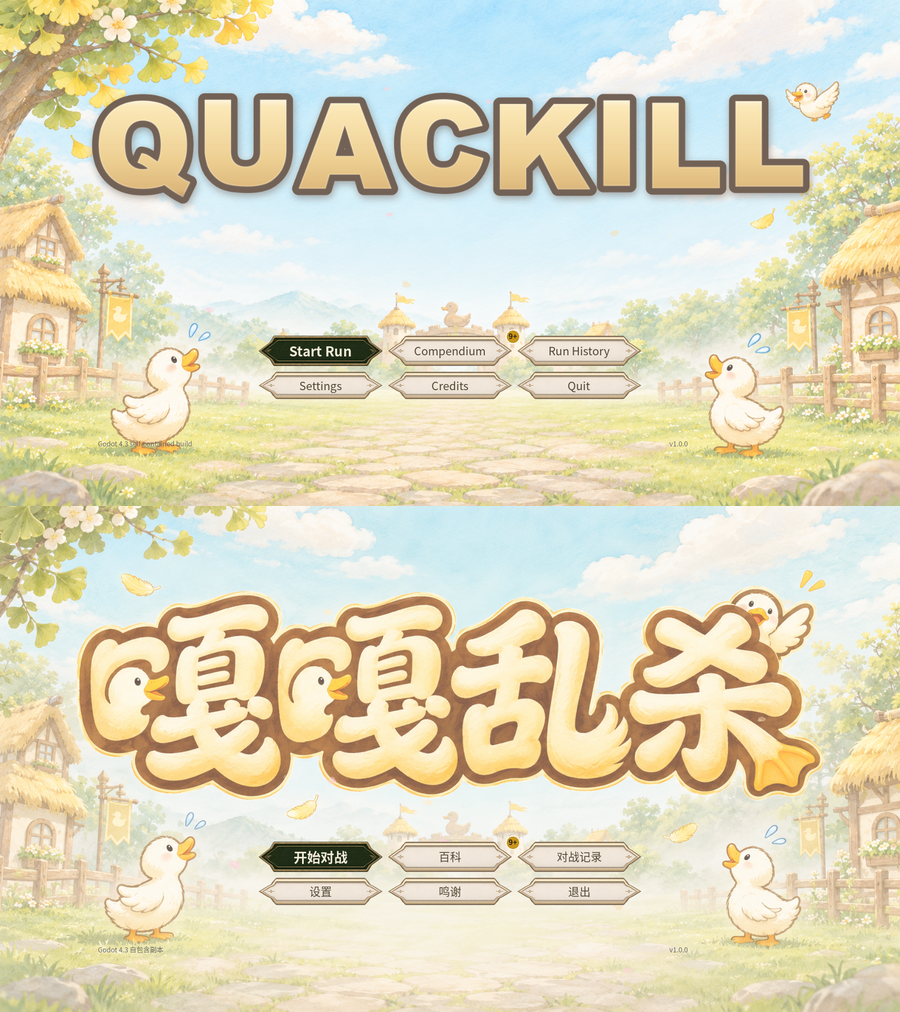
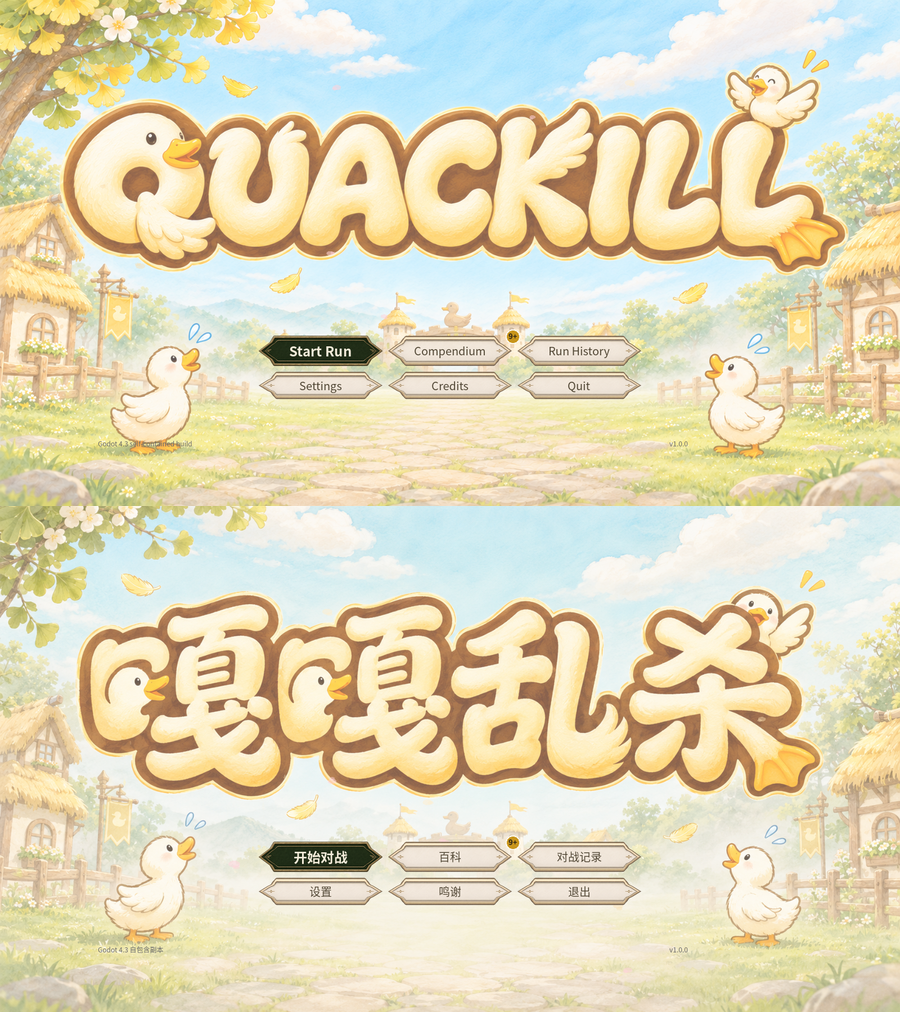
R855：英文主视觉改为鸭子字形 QUACKILL

diff --git a/art_src/2026-11-22_title_en/_make_duck_review.py b/art_src/2026-11-22_title_en/_make_duck_review.py
@@ -1,0 +1,41 @@
+# -*- coding: utf-8 -*-
+"""把已生成的鸭子字形候选与旧版并排，缺图自动跳过，便于增量验收。"""
+import os
+from PIL import Image, ImageDraw, ImageFont
+
+ROOT = os.path.dirname(os.path.dirname(os.path.dirname(os.path.abspath(__file__))))
+D = os.path.join(ROOT, "art_src", "2026-11-22_title_en")
+RAW = os.path.join(D, "raw")
+ITEMS = [
+    ("Chinese reference", os.path.join(ROOT, "assets", "ui", "title_art.png")),
+    ("Old English - plain type", os.path.join(ROOT, "assets", "ui", "title_art_en.png")),
+    ("Codex duck lettering v1", os.path.join(RAW, "title_duck_v1.png")),
+    ("Codex duck lettering v2", os.path.join(RAW, "title_duck_v2.png")),
+]
+
+def main():
+    cells = []
+    for label, path in ITEMS:
+        if not os.path.exists(path):
+            continue
+        im = Image.open(path).convert("RGB")
+        im = im.resize((768, 432), Image.LANCZOS)
+        cell = Image.new("RGB", (768, 470), (245, 239, 222))
+        cell.paste(im, (0, 38))
+        draw = ImageDraw.Draw(cell)
+        font = ImageFont.truetype(r"C:\Windows\Fonts\arial.ttf", 22)
+        draw.text((14, 7), label, font=font, fill=(55, 35, 20))
+        cells.append(cell)
+    if not cells:
+        raise SystemExit("no images")
+    cols = 2 if len(cells) > 1 else 1
+    rows = (len(cells) + cols - 1) // cols
+    sheet = Image.new("RGB", (cols * 768, rows * 470), (245, 239, 222))
+    for i, cell in enumerate(cells):
+        sheet.paste(cell, ((i % cols) * 768, (i // cols) * 470))
+    out = os.path.join(D, "review_duck_candidates.png")
+    sheet.save(out, optimize=True)
+    print(out)
+
+if __name__ == "__main__":
+    main()

diff --git a/art_src/2026-11-22_title_en/_run_codex.py b/art_src/2026-11-22_title_en/_run_codex.py
@@ -1,13 +1,14 @@
 # -*- coding: utf-8 -*-
-"""英文版主界面主视觉背景：委托 codex 出无字图，标题字后期用金渐变合成。
+"""英文版主界面主视觉：codex 出图与鸭子字形重委托。
 
-为什么不让 AI 画字：R604 的老结论——英文八个字母 AI 照样会拼错，
-所以背景只出「无字版」，QUACKILL 由 _compose_title_en.py 用 PIL 排。
+en：旧流程，无字背景 + _compose_title_en.py 的 PIL 字体标题。
+duck1 / duck2：完整主视觉，QUACKILL 直接由 codex 画成鸭子字形；
+必须逐张人工核对八字母拼写，不能只验画风。最终选用 duck2。
 
-参考图传现有中文版 title_art.png，保证同一个童话村庄世界、同一套色调与角色。
+参考图传中文版 title_art.png 与现有英文无字背景，保持同一童话村庄与构图。
 
 用法：
-    python _run_codex.py
+    python _run_codex.py duck1 duck2
 """
 import json
 import os
@@ -30,6 +31,10 @@ PROXY = os.environ.get("CODEX_PROXY", "http://127.0.0.1:7897")
 
 JOBS = [
     ("en", ("bg_title_en.txt", "bg_title_en.png", ["assets/ui/title_art.png"])),
+    ("duck1", ("title_duck_v1.txt", "title_duck_v1.png", [
+        "assets/ui/title_art.png", "art_src/2026-11-22_title_en/raw/bg_title_en.png"])),
+    ("duck2", ("title_duck_v2.txt", "title_duck_v2.png", [
+        "assets/ui/title_art.png", "art_src/2026-11-22_title_en/raw/bg_title_en.png"])),
 ]
 
 PAT = re.compile(r"[A-Za-z]:[\\/][^\"\r\n]*?generated_images[\\/][^\"\r\n]*?\.png")

diff --git a/HANDOFF.md b/HANDOFF.md
@@ -2343,3 +2343,27 @@ manifest 的 9018 条目已更新 ref / prompt / note。
   修两条旧口径断言——`BATTLE_HEAL[0]` 0→3、R237/R853 那条原本漏设档位跑在 0 档、
   现补 `set_difficulty(12)`（旧代码全 0 时侥幸没红）。
 - **回归**：`_verify.py` 十套；engine 断点见当轮日志。用户数据备份 `/e/tmp/wt_r851b_userdata_bk`。
+
+## 2026-11-22 English duck lettering illustration
+- Goal: finished QUACKILL title illustration, duck anatomy integrated into Q/C/final L.
+- Scope: new art_src/2026-11-22_title_en/finished_quackill_duck_lettering_v1.png and matching prompt file; existing art and game scenes preserved.
+- Validation: inspected generated illustration for exact QUACKILL lettering and integrated duck features; System.Drawing checked final PNG at 1920x1080. Built-in imagegen used; final sized with bicubic resampling.
+- Known limitation: git status failed because git.exe execution was denied. Existing uncommitted changes could not be enumerated. No commit or push performed. No runtime integration or game-scene acceptance claimed.
+- Next: review asset in real title scene if integration is requested; commit this explicit asset/prompt file list and HANDOFF.md once Git execution is available.
+- Commit: unavailable (Git execution denied).
+
+## 2026-11-22 QUACKILL finished title illustration v2
+- Goal: complete English title screen with exact QUACKILL spelling and integrated Q/U/K/final-L duck anatomy.
+- Scope: added art_src/2026-11-22_title_en/finished_quackill_duck_lettering_v2.png and matching .prompt.txt. Existing images and scenes preserved.
+- Validation: visually inspected generated art for eight-letter spelling, duck features, unclipped title and clear lower menu area; System.Drawing verified final export at 1920x1080. Built-in image_gen used.
+- Known issues: git status failed with git.exe access denied; external uncommitted changes could not be identified. No commit or push performed. Asset-only delivery, no runtime scene integration or scene acceptance claimed.
+- Next: if integrating, inspect the actual title scene including narrow windows. Commit only the two v2 files plus this handoff entry when Git execution is available.
+- Corresponding commit: unavailable, Git execution denied.
+
+## 2026-11-22 R855 英文主视觉鸭子字形定稿
+- 店长反馈 R854 普通英文粗体没有参考中文版的鸭子字形；本轮选择 codex 候选 v2。
+- `QUACKILL` 八字母拼写与顺序已逐字验收；Q 鸭头、K 翅膀、末尾 L 鸭掌均直接参与字形。
+- 正式替换 `assets/ui/title_art_en.png`（1920×1080）；中文图、语言分支及 R607 无副标题规则不变。
+- 已重新导入并用 `tools/_shot_title_lang.gd --lang=en` 实机截图：标题无裁切、不遮六个菜单按钮。
+- 对照图：`art_src/2026-11-22_title_en/preview_ingame_zh_vs_en.png`；候选与旧版备份均保留在同目录。
+- 纯美术资产与生成工程变更，无玩法代码改动，未跑全量玩法回归。
